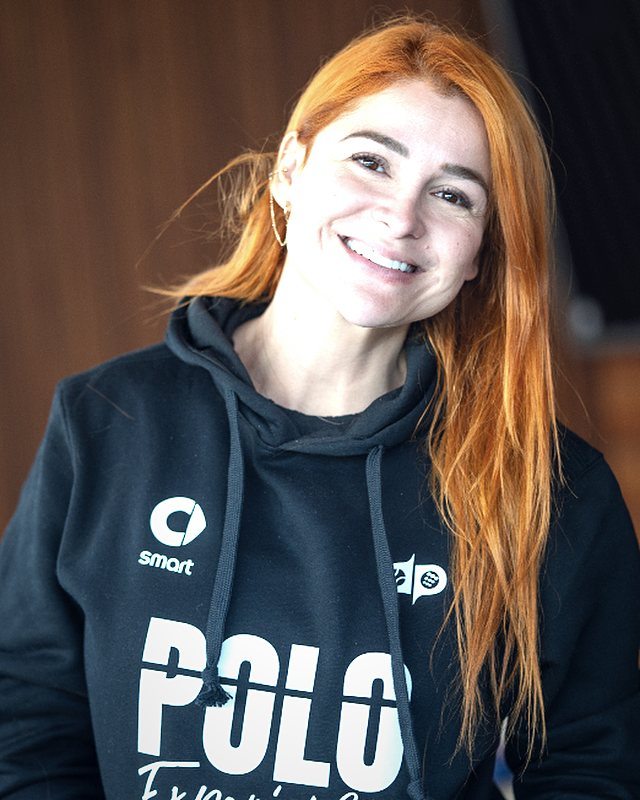
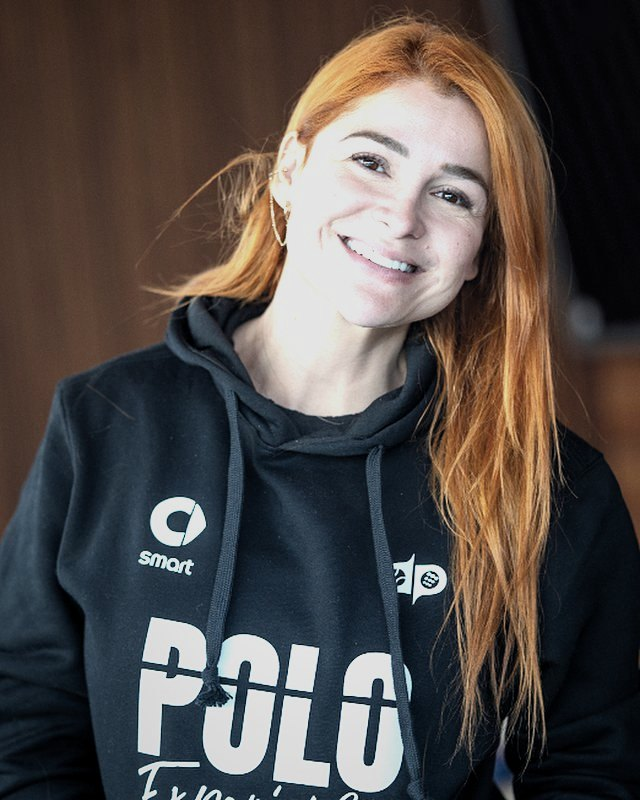
Garantía más baja y con el video a color; foto de Camila menos brillante
- Banner de garantía: menos alto, sin filtro gris ni mezcla sobre el video;
  solo un degradado suave detrás del texto. El título pequeño ya no hereda
  el tamaño de los párrafos.
- comunidad.jpg: altas luces comprimidas y menos saturación en el pelo.

Claude-Session: https://claude.ai/code/session_01BfHWVmjD4t5BZ6WYEMSBVa

diff --git a/index.html b/index.html
@@ -386,18 +386,19 @@ p{margin:0}
 .belief{position:relative;overflow:hidden;color:var(--navy);background:var(--wood)}
 .belief__media{position:absolute;inset:0}
 .belief__media.media{background:linear-gradient(135deg,#C98B5A,#B4703F)}
-.belief__media video{mix-blend-mode:multiply;opacity:.55;filter:grayscale(1) contrast(1.1)}
+.belief__media video{object-position:60% 50%}
 .belief__media.is-missing::after{color:rgba(12,35,64,.55);inset:auto var(--gutter) 20px auto}
-.belief::before{content:"";position:absolute;inset:0;background:linear-gradient(90deg,rgba(201,139,90,.85) 0%,rgba(201,139,90,.35) 70%,rgba(201,139,90,.1));pointer-events:none;z-index:1}
-.belief__in{position:relative;z-index:2;padding-block:clamp(80px,11vw,150px);display:grid;gap:48px;align-items:center}
-.belief .eyebrow{color:rgba(12,35,64,.75);padding-bottom:20px;border-bottom:1px solid rgba(12,35,64,.25);margin-bottom:40px}
+/* Degradado suave solo detrás del texto: el video se ve con sus colores */
+.belief::before{content:"";position:absolute;inset:0;background:linear-gradient(90deg,rgba(214,128,92,.62) 0%,rgba(214,128,92,.32) 45%,rgba(214,128,92,0) 72%);pointer-events:none;z-index:1}
+.belief__in{position:relative;z-index:2;padding-block:clamp(56px,7vw,96px);display:grid;gap:36px;align-items:center}
+.belief .eyebrow{color:rgba(12,35,64,.8);padding-bottom:16px;border-bottom:1px solid rgba(12,35,64,.25);margin-bottom:28px}
 .belief .eyebrow b{color:var(--navy)}
-.belief h2{font-size:clamp(2.125rem,5.6vw,4.25rem);max-width:15ch}
-.belief p{margin-top:28px;font-size:var(--fs-lead);font-weight:500;max-width:46ch}
+.belief h2{font-size:clamp(2rem,4.4vw,3.5rem);max-width:16ch}
+.belief p:not(.eyebrow){margin-top:20px;font-size:var(--fs-lead);font-weight:500;max-width:46ch}
 .belief p strong{color:#fff;font-weight:600}
-.belief .btn{margin-top:32px}
+.belief .btn{margin-top:24px}
 .belief .sample{color:var(--navy)}
-.seal{width:min(64vw,280px);aspect-ratio:1;justify-self:center;position:relative;color:var(--navy)}
+.seal{width:min(44vw,230px);aspect-ratio:1;justify-self:center;position:relative;color:var(--navy)}
 .seal svg{width:100%;height:100%}
 .seal__ring{transform-origin:50% 50%;animation:spin 30s linear infinite}
 .seal__core{position:absolute;inset:0;display:grid;place-content:center;text-align:center}
